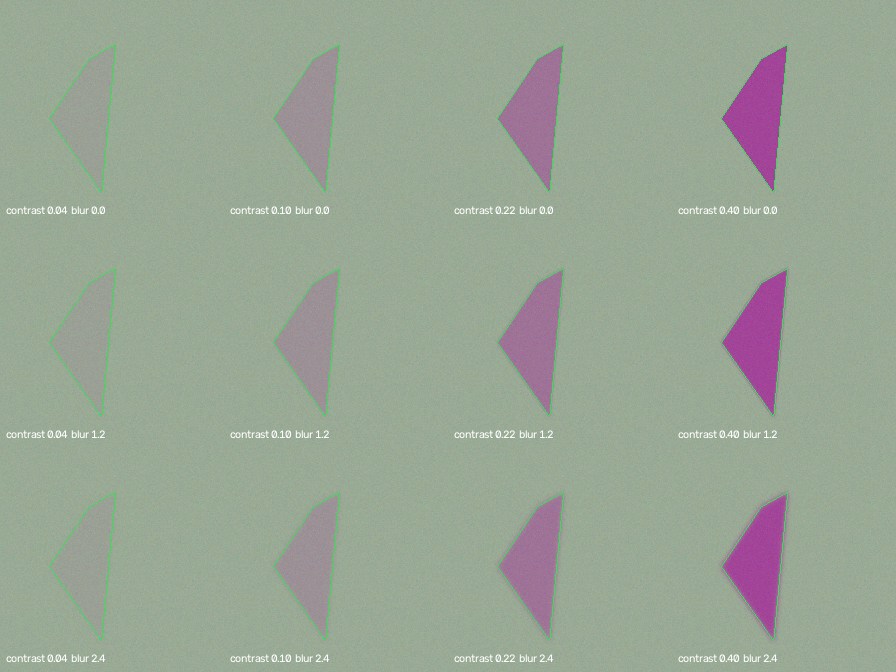
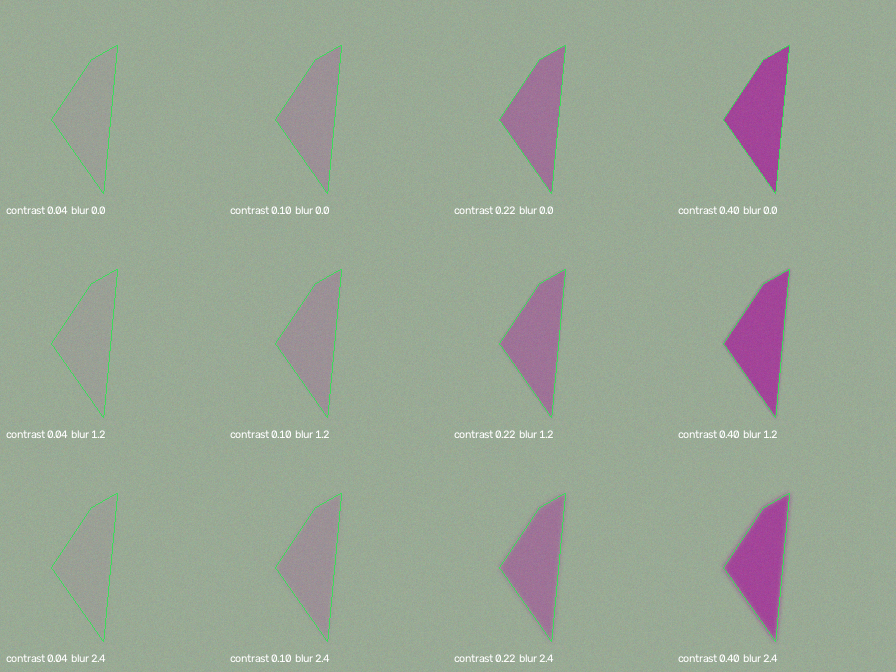
docs: refresh the synthetic examples for the shape generator
Replaces the crop-paste figures with two views of the new generator: random
pairs with per-view background, shape, scale, angle, contrast, blur and noise,
and a grid that holds everything fixed except contrast and blur. Adds --seed
so a sheet can be reproduced.

diff --git a/src/osid/model/synth.py b/src/osid/model/synth.py
@@ -335,6 +335,7 @@ def main(argv: list[str] | None = None) -> int:
     """
     parser = argparse.ArgumentParser(description="Preview synthetic shape pairs.")
     parser.add_argument("--samples", type=int, default=6)
+    parser.add_argument("--seed", type=int, default=1)
     parser.add_argument("--size", type=int, default=448)
     parser.add_argument(
         "--check",
@@ -353,7 +354,7 @@ def main(argv: list[str] | None = None) -> int:
     )
     args = parser.parse_args(argv)
 
-    generator = ShapePairGenerator(size=args.size, limit=args.samples, seed=1)
+    generator = ShapePairGenerator(size=args.size, limit=args.samples, seed=args.seed)
     if args.check:
         ious = []
         errors = []

diff --git a/src/osid/model/README.md b/src/osid/model/README.md
@@ -88,7 +88,7 @@ descriptors               N x 128              gathered from the map
 | `detector.py` | the model: `detect(image) -> Detections` | how keypoints are selected, what is returned |
 | `matcher.py` | matching utilities: mutual NN, ratio test | matching rules, when you want them shared |
 | `adapter.py` | benchmark adapter: detect both images, then match | the matcher used for benchmarking, homography settings |
-| `synth.py` | synthetic pairs: object pasted into two backgrounds, with masks and an exact homography | placement, degradation, occlusion, backgrounds |
+| `synth.py` | synthetic shapes on flat backgrounds, with masks and an exact homography | shape complexity, contrast, blur, noise, placement |
 | `__main__.py` | run one image and write an overlay | the quickest way to see the model work |
 
 ## Run it
@@ -110,10 +110,21 @@ contrast against the background, Gaussian blur, and additive noise. Backgrounds
 can differ between views, so the only shared signal is the shape.
 
 ```bash
-uv run python -m osid.model.synth --samples 6             # contact sheet
-uv run python -m osid.model.synth --samples 20 --check    # label sanity
-uv run python -m osid.model.synth --grid                  # contrast × blur grid
+uv run python -m osid.model.synth --samples 6              # contact sheet
+uv run python -m osid.model.synth --samples 20 --check     # label sanity
+uv run python -m osid.model.synth --grid                   # contrast × blur grid
+uv run python -m osid.model.synth --samples 4 --seed 11    # reproducible sheet
 ```
+
+Two views of the same generator. Random pairs show what a training batch looks
+like — different backgrounds, shapes, scales and angles per view:
+
+![Synthetic pairs: the same polygon on two different backgrounds with different contrast, blur and noise](../../../docs/devnotes/images/week4/synthetic_examples.png)
+
+The grid holds everything fixed except contrast and blur, which is how the
+knobs are checked rather than assumed:
+
+![Synthetic grid: one polygon at four contrast levels and three blur levels](../../../docs/devnotes/images/week4/synthetic_grid.png)
 
 `--check` verifies the label two ways. Projecting view A's polygon vertices
 through the homography and comparing them with view B's gives a reprojection
